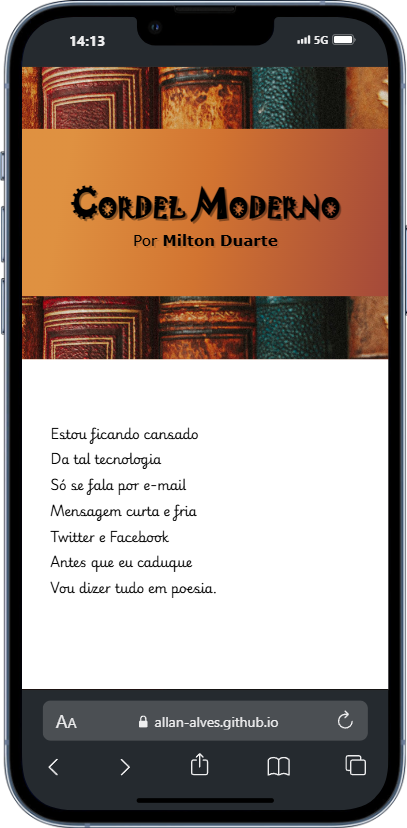
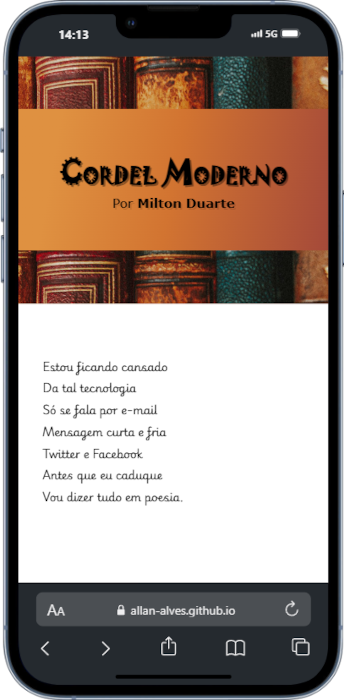
Imagens de demonstração de telas de tamanhos diferentes adicionadas

diff --git a/projetos-do-curso-html5-css3/02-Projeto-Cordel/README.md b/projetos-do-curso-html5-css3/02-Projeto-Cordel/README.md
@@ -23,3 +23,13 @@ O projeto consiste em um site que apresenta de forma ilustrativa, com imagens qu
 ## Demonstração em diferentes tamanhos de tela
 
 __Mobile - iPhone 13 Pro - 390 x 844__
+
+![Mobile](images/1%20-%20iPhone%2013%20PRO%20-%20390%20x%20844.png)
+
+__Tablet - iPad Pro 11 - 834 x 1194__
+
+![Tablet](images/2%20-%20iPad%20PRO%2011%20-%20834%20x%201194.png)
+
+__Desktop - 1920 x 1080__
+
+![Desktop](images/3%20-%20Desktop%20-%201920%20x%201080.png)
